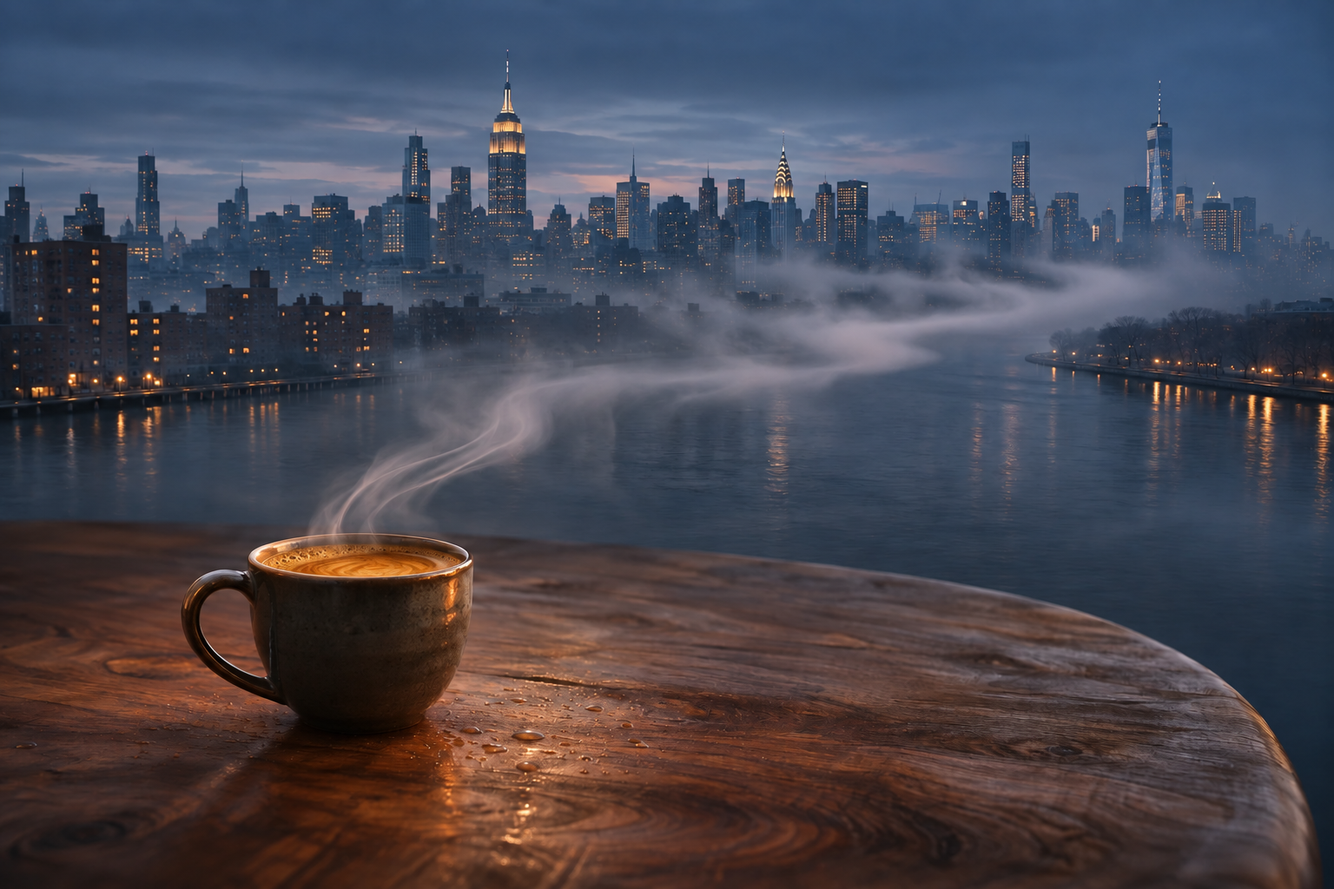
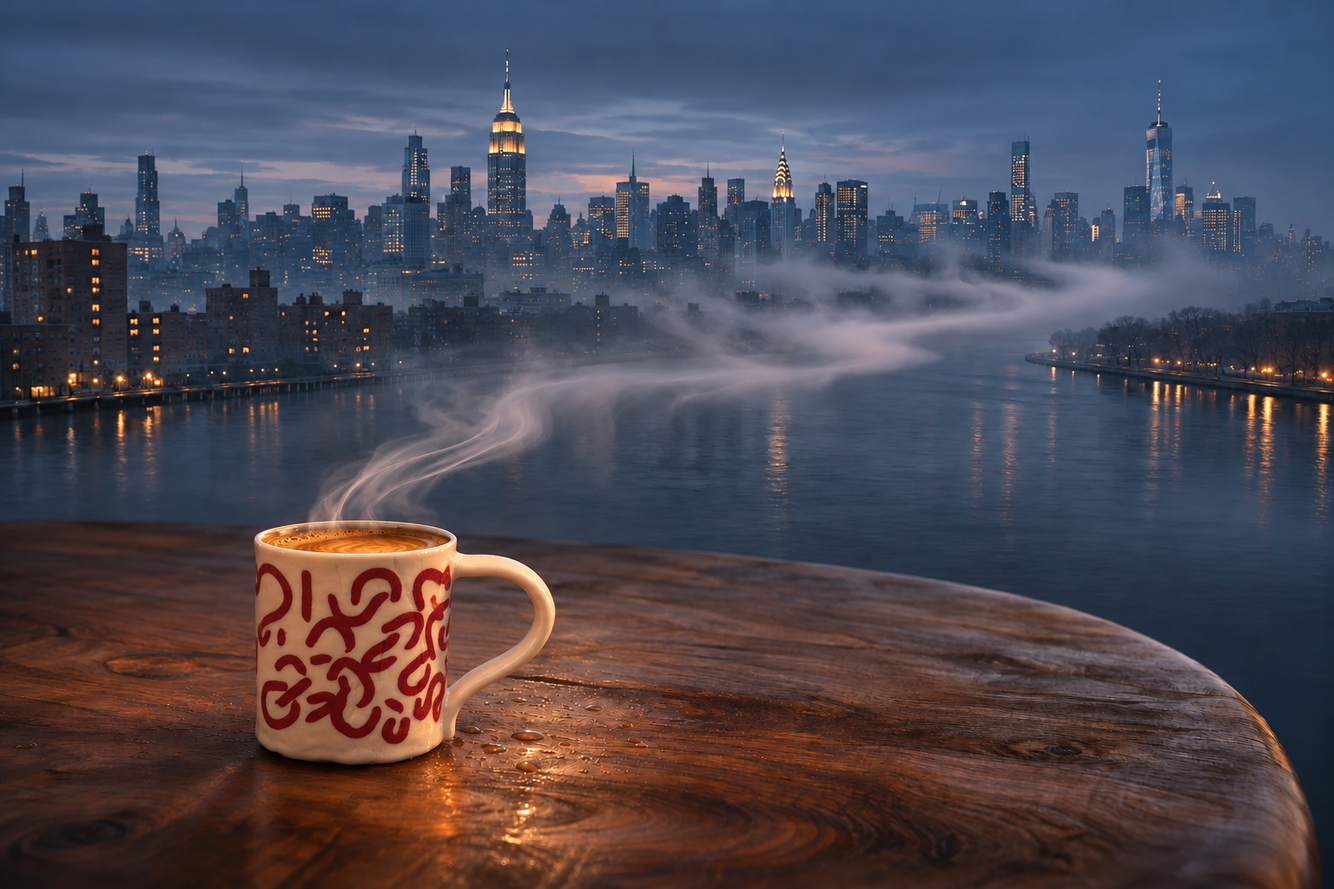
Replace the gallery with the supplied personal cup images

diff --git a/public/ryans-cup/index.html b/public/ryans-cup/index.html
@@ -15,16 +15,16 @@
   <meta property="og:type" content="article">
   <meta property="og:url" content="https://www.ofnectar.com/ryans-cup/">
   <meta property="og:locale" content="en_US">
-  <meta property="og:image" content="https://www.ofnectar.com/assets/hero/06-brooklyn-morning.webp?v=crema-v3">
-  <meta property="og:image:alt" content="Crema-topped coffee on a brownstone kitchen table, its steam drifting toward rooftops and river fog before sunrise.">
+  <meta property="og:image" content="https://www.ofnectar.com/assets/hero/06-brooklyn-morning.webp?v=personal-cups-v1">
+  <meta property="og:image:alt" content="Coffee in a black-and-white patterned mug and saucer on an oak kitchen table, with steam rising toward foggy New York through a window.">
   <meta property="og:image:width" content="1536">
   <meta property="og:image:height" content="1024">
   <meta name="twitter:card" content="summary_large_image">
   <meta name="twitter:title" content="Ryan’s Cup — Coffee Brewed in an 8 oz Cup | Nectar">
   <meta name="twitter:description" content="Make Ryan’s Cup: grind coffee between espresso and Turkish, brew it directly in an 8 fl oz cup, and let the grounds settle. A small, personal coffee ritual.">
-  <meta name="twitter:image" content="https://www.ofnectar.com/assets/hero/06-brooklyn-morning.webp?v=crema-v3">
-  <meta name="twitter:image:alt" content="Crema-topped coffee on a brownstone kitchen table, its steam drifting toward rooftops and river fog before sunrise.">
-  <script type="application/ld+json">{"@context":"https://schema.org","@graph":[{"@type":"Organization","@id":"https://www.ofnectar.com/#organization","name":"Nectar Coffee Roasters","url":"https://www.ofnectar.com/","logo":"https://www.ofnectar.com/assets/nectar-unwinding-haze.webp?v=steam-b-v1","description":"a cup of Nectar."},{"@type":"WebSite","@id":"https://www.ofnectar.com/#website","name":"Nectar Coffee Roasters","url":"https://www.ofnectar.com/","publisher":{"@id":"https://www.ofnectar.com/#organization"},"inLanguage":"en"},{"@type":"WebPage","@id":"https://www.ofnectar.com/ryans-cup/#webpage","url":"https://www.ofnectar.com/ryans-cup/","name":"Ryan’s Cup — Coffee Brewed in an 8 oz Cup | Nectar","description":"Make Ryan’s Cup: grind coffee between espresso and Turkish, brew it directly in an 8 fl oz cup, and let the grounds settle. A small, personal coffee ritual.","isPartOf":{"@id":"https://www.ofnectar.com/#website"},"about":{"@id":"https://www.ofnectar.com/ryans-cup/#article"},"inLanguage":"en"},{"@type":"Article","@id":"https://www.ofnectar.com/ryans-cup/#article","url":"https://www.ofnectar.com/ryans-cup/","headline":"Ryan’s Cup: coffee brewed directly in an 8 oz cup","description":"Make Ryan’s Cup: grind coffee between espresso and Turkish, brew it directly in an 8 fl oz cup, and let the grounds settle. A small, personal coffee ritual.","image":"https://www.ofnectar.com/assets/hero/06-brooklyn-morning.webp?v=crema-v3","author":{"@id":"https://www.ofnectar.com/#organization"},"publisher":{"@id":"https://www.ofnectar.com/#organization"},"mainEntityOfPage":{"@id":"https://www.ofnectar.com/ryans-cup/#webpage"}},{"@type":"BreadcrumbList","itemListElement":[{"@type":"ListItem","position":1,"name":"Home","item":"https://www.ofnectar.com/"},{"@type":"ListItem","position":2,"name":"Ryan’s Cup","item":"https://www.ofnectar.com/ryans-cup/"}]}]}</script>
+  <meta name="twitter:image" content="https://www.ofnectar.com/assets/hero/06-brooklyn-morning.webp?v=personal-cups-v1">
+  <meta name="twitter:image:alt" content="Coffee in a black-and-white patterned mug and saucer on an oak kitchen table, with steam rising toward foggy New York through a window.">
+  <script type="application/ld+json">{"@context":"https://schema.org","@graph":[{"@type":"Organization","@id":"https://www.ofnectar.com/#organization","name":"Nectar Coffee Roasters","url":"https://www.ofnectar.com/","logo":"https://www.ofnectar.com/assets/nectar-unwinding-haze.webp?v=steam-b-v1","description":"a cup of Nectar."},{"@type":"WebSite","@id":"https://www.ofnectar.com/#website","name":"Nectar Coffee Roasters","url":"https://www.ofnectar.com/","publisher":{"@id":"https://www.ofnectar.com/#organization"},"inLanguage":"en"},{"@type":"WebPage","@id":"https://www.ofnectar.com/ryans-cup/#webpage","url":"https://www.ofnectar.com/ryans-cup/","name":"Ryan’s Cup — Coffee Brewed in an 8 oz Cup | Nectar","description":"Make Ryan’s Cup: grind coffee between espresso and Turkish, brew it directly in an 8 fl oz cup, and let the grounds settle. A small, personal coffee ritual.","isPartOf":{"@id":"https://www.ofnectar.com/#website"},"about":{"@id":"https://www.ofnectar.com/ryans-cup/#article"},"inLanguage":"en"},{"@type":"Article","@id":"https://www.ofnectar.com/ryans-cup/#article","url":"https://www.ofnectar.com/ryans-cup/","headline":"Ryan’s Cup: coffee brewed directly in an 8 oz cup","description":"Make Ryan’s Cup: grind coffee between espresso and Turkish, brew it directly in an 8 fl oz cup, and let the grounds settle. A small, personal coffee ritual.","image":"https://www.ofnectar.com/assets/hero/06-brooklyn-morning.webp?v=personal-cups-v1","author":{"@id":"https://www.ofnectar.com/#organization"},"publisher":{"@id":"https://www.ofnectar.com/#organization"},"mainEntityOfPage":{"@id":"https://www.ofnectar.com/ryans-cup/#webpage"}},{"@type":"BreadcrumbList","itemListElement":[{"@type":"ListItem","position":1,"name":"Home","item":"https://www.ofnectar.com/"},{"@type":"ListItem","position":2,"name":"Ryan’s Cup","item":"https://www.ofnectar.com/ryans-cup/"}]}]}</script>
   <!-- SEO:end -->
   <link rel="icon" href="/assets/favicon.svg?v=steam-b-v1" type="image/svg+xml">
   <link rel="preload" href="/assets/nectar-unwinding-haze.webp?v=steam-b-v1" as="image">
@@ -48,7 +48,7 @@
     <div class="header-actions"><button class="bag-button" data-open="cart-dialog" aria-label="Open your bag"><svg viewBox="0 0 24 24" aria-hidden="true"><path d="M5 7h14l1 14H4L5 7Zm3 0V5a4 4 0 0 1 8 0v2" fill="none" stroke="currentColor" stroke-width="1.4"/></svg><span>Bag</span><span class="bag-count" data-cart-count>0</span></button><button class="menu-toggle" data-open="menu-dialog" aria-label="Open navigation"><span></span><span></span></button></div>
   </header>
   <main id="main">
-    <section class="ryan-page-hero" aria-labelledby="ryan-title"><nav class="breadcrumbs" aria-label="Breadcrumb"><a href="/">Home</a><span aria-hidden="true">/</span><span aria-current="page">Ryan’s Cup</span></nav><div class="ryan-page-heading"><div><p class="eyebrow">THE SIGNATURE RITUAL</p><h1 id="ryan-title">Ryan’s <em>Cup.</em></h1></div><p>Fine grounds.<br> Hot water.<br> Your eight-ounce cup.</p></div><div class="ryan-page-image"><img src="/assets/hero/06-brooklyn-morning.webp?v=crema-v3" alt="An imagined New York morning above a kitchen table with a crema-topped coffee cup" width="1536" height="1024" fetchpriority="high"><span>Small cup. Freshly made. Yours.</span></div></section>
+    <section class="ryan-page-hero" aria-labelledby="ryan-title"><nav class="breadcrumbs" aria-label="Breadcrumb"><a href="/">Home</a><span aria-hidden="true">/</span><span aria-current="page">Ryan’s Cup</span></nav><div class="ryan-page-heading"><div><p class="eyebrow">THE SIGNATURE RITUAL</p><h1 id="ryan-title">Ryan’s <em>Cup.</em></h1></div><p>Fine grounds.<br> Hot water.<br> Your eight-ounce cup.</p></div><div class="ryan-page-image"><img src="/assets/hero/06-brooklyn-morning.webp?v=personal-cups-v1" alt="Coffee in a black-and-white patterned mug and saucer on an oak kitchen table, with steam rising toward foggy New York through a window." width="1536" height="1024" fetchpriority="high"><span>Small cup. Freshly made. Yours.</span></div></section>
     <section class="ryan-introduction" aria-labelledby="ryan-intro-title"><h2 id="ryan-intro-title">A little cup.<br><em>More often.</em></h2><div><p>Ryan’s Cup is coffee brewed directly in the cup you drink from. Use an 8 fl oz cup and coffee ground between espresso and Turkish. The grounds stay in the cup throughout the brew.</p><p>Hot water sets the grounds in motion. As the cup rests, gravity helps them settle. It is an unfiltered immersion brew: no plunger, no paper, just a small cup made when you want it.</p></div></section>
     <section class="ryan-instructions" aria-labelledby="ryan-steps-title"><div class="section-heading"><div><p class="eyebrow">HOW TO MAKE RYAN’S CUP</p><h2 id="ryan-steps-title">Grind. Pour.<br><em>Let it settle.</em></h2></div><p>Adjust the coffee dose to your taste. The eight ounces describe the cup’s capacity.</p></div><ol><li><span class="step-number">01</span><div><h3>Grind fine.</h3><p>Choose a grind finer than espresso and coarser than Turkish. Grind for the cup you’re making.</p></div></li><li><span class="step-number">02</span><div><h3>Start in the cup.</h3><p>Place the grounds directly in the bottom of an 8 fl oz cup. There is no separate brewing vessel.</p></div></li><li><span class="step-number">03</span><div><h3>Pour. Let it settle.</h3><p>Pour in hot water, leaving room below the rim. The pour moves the grounds through the water. Let the cup rest as the grounds settle.</p></div></li><li><span class="step-number">04</span><div><h3>Sip slowly.</h3><p>Once the cup is comfortable to drink, sip from above the settled grounds. Leave the sediment at the bottom.</p></div></li></ol></section>
     <section class="ryan-notes" aria-labelledby="ryan-notes-title"><div><p class="eyebrow">THE DETAILS</p><h2 id="ryan-notes-title">A ritual,<br><em>made personal.</em></h2></div><div class="faq-list"><details><summary>How fine should I grind?<span>+</span></summary><p>Between espresso and Turkish: finer than a typical espresso grind, without going all the way to the powder-like Turkish end. Grinders vary, so adjust yours by how the cup drinks.</p></details><details><summary>What happens to the grounds?<span>+</span></summary><p>They stay in the cup. Give them time to settle, sip gently, and leave the sediment at the bottom. This method uses immersion and settling rather than a filter.</p></details><details><summary>How much water goes in?<span>+</span></summary><p>Use an 8 fl oz cup and leave space beneath the rim for the coffee grounds and the pour. Eight ounces is the cup size, not a fixed water dose.</p></details><details><summary>Which roast can I use?<span>+</span></summary><p>Choose Infinite Luck for our light roast or Azoth for our dark roast. Both are available in 12 oz and 5 lb bags.</p></details></div></section>
@@ -59,7 +59,7 @@
     </section>
   </main>
   <!-- SOCIAL:start -->
-  <section class="social-section" aria-labelledby="social-title"><div><p class="eyebrow">PASS IT ON</p><h2 id="social-title">A cup worth <em>sharing.</em></h2></div><div class="social-actions"><button data-share-cup>Share this page ↗</button><a href="https://www.pinterest.com/pin/create/button/?url=https%3A%2F%2Fwww.ofnectar.com%2Fryans-cup%2F&amp;media=https%3A%2F%2Fwww.ofnectar.com%2Fassets%2Fhero%2F06-brooklyn-morning.webp%3Fv%3Dcrema-v3&amp;description=Make+Ryan%E2%80%99s+Cup%3A+grind+coffee+between+espresso+and+Turkish%2C+brew+it+directly+in+an+8+fl+oz+cup%2C+and+let+the+grounds+settle.+A+small%2C+personal+coffee+ritual." target="_blank" rel="noopener noreferrer">Save on Pinterest ↗</a><span class="social-status" role="status" aria-live="polite" data-share-status></span></div></section>
+  <section class="social-section" aria-labelledby="social-title"><div><p class="eyebrow">PASS IT ON</p><h2 id="social-title">A cup worth <em>sharing.</em></h2></div><div class="social-actions"><button data-share-cup>Share this page ↗</button><a href="https://www.pinterest.com/pin/create/button/?url=https%3A%2F%2Fwww.ofnectar.com%2Fryans-cup%2F&amp;media=https%3A%2F%2Fwww.ofnectar.com%2Fassets%2Fhero%2F06-brooklyn-morning.webp%3Fv%3Dpersonal-cups-v1&amp;description=Make+Ryan%E2%80%99s+Cup%3A+grind+coffee+between+espresso+and+Turkish%2C+brew+it+directly+in+an+8+fl+oz+cup%2C+and+let+the+grounds+settle.+A+small%2C+personal+coffee+ritual." target="_blank" rel="noopener noreferrer">Save on Pinterest ↗</a><span class="social-status" role="status" aria-live="polite" data-share-status></span></div></section>
   <!-- SOCIAL:end -->
   <footer class="site-footer"><div class="footer-top"><div class="footer-intro"><a class="brand footer-brand" href="/" aria-label="Nectar Coffee Roasters home"><svg aria-hidden="true"><use href="#nectar-key"/></svg><span><span class="brand-line">Nectar</span><small>COFFEE ROASTERS</small></span></a><p class="footer-slogan" aria-label="a cup of Nectar">a cup <svg viewBox="0 0 60 84" aria-hidden="true"><use href="#nectar-of"/></svg> Nectar</p></div><nav aria-label="Footer navigation"><div><span class="eyebrow">SHOP</span><a href="/coffee/infinite-luck-light-roast/">Infinite Luck · light roast</a><a href="/coffee/azoth-dark-roast/">Azoth · dark roast</a><button data-open="sizes-dialog">Bag sizes</button></div><div><span class="eyebrow">EXPLORE</span><a href="/about/">Our story</a><a href="/ryans-cup/">Ryan’s Cup</a><a href="/#stay-in-the-loop">Email updates</a></div><div><span class="eyebrow">A LITTLE HELP</span><button data-open="info-dialog">Ordering &amp; privacy</button><a data-contact hidden>Contact</a><button data-open="cart-dialog">Your bag</button></div></nav></div><div class="footer-bottom"><span>© <span data-year>2026</span></span><span>Light &amp; dark roast coffee · USD</span><a href="#">Back to top ↑</a></div></footer>
   <div class="toast" id="toast" role="status" aria-live="polite"></div>

diff --git a/public/index.html b/public/index.html
@@ -29,10 +29,10 @@
   <link rel="icon" href="/assets/favicon.svg?v=steam-b-v1" type="image/svg+xml">
   <link rel="preload" href="/assets/nectar-unwinding-haze.webp?v=steam-b-v1" as="image">
   <link rel="preload" href="/assets/fonts/cormorant-regular.woff2" as="font" type="font/woff2" crossorigin>
-  <link rel="preload" href="/assets/hero/01-city-wakes.webp?v=crema-v3" as="image">
+  <link rel="preload" href="/assets/hero/01-city-wakes.webp?v=personal-cups-v1" as="image">
   <link rel="stylesheet" href="/styles.css?v=of-rotate-v1">
   <script src="/app.js?v=steam-b-v1" type="module"></script>
-  <script src="/carousel.js?v=steam-b-v1" type="module"></script>
+  <script src="/carousel.js?v=personal-cups-v1" type="module"></script>
   <script src="/social.js?v=steam-b-v1" type="module"></script>
 </head>
 <body>
@@ -53,7 +53,7 @@
       <div class="hero-masthead"><div class="hero-copy"><h1 id="hero-title" class="personal-slogan cup-slogan" aria-label="a cup of Nectar"><span class="slogan-lead">a cup</span><span class="slogan-signature"><svg viewBox="0 0 60 84" aria-hidden="true"><use href="#nectar-of"/></svg><span>Nectar</span></span></h1></div><div class="hero-actions"><a class="button button-primary" href="#coffee">Choose your coffee <svg aria-hidden="true"><use href="#arrow"/></svg></a><p>12 oz — $12 <span>5 lb — $72</span></p><a class="underlined-link" href="/ryans-cup/">The ritual: Ryan’s Cup ↗</a></div></div>
       <div class="hero-editorial-grid"><!-- HERO:start -->
       <div class="hero-gallery" data-carousel role="region" aria-roledescription="carousel" aria-labelledby="scene-gallery-title">
-        <div class="scene-frame" id="scene-frame" data-scene-frame><img class="scene-image" src="/assets/hero/01-city-wakes.webp?v=crema-v3" alt="Steam from a crema-topped ivory cup on an oak kitchen table becomes the morning fog over a full-size city." width="1536" height="1024" fetchpriority="high"></div>
+        <div class="scene-frame" id="scene-frame" data-scene-frame><img class="scene-image" src="/assets/hero/01-city-wakes.webp?v=personal-cups-v1" alt="Coffee in a red-patterned cream mug on a dew-covered oak table, with steam drifting into a misty New York skyline at sunrise." width="1536" height="1024" fetchpriority="high"></div>
         <div class="scene-caption"><div><p class="eyebrow" id="scene-gallery-title">BEFORE THE CITY WAKES</p><span data-scene-title>The city wakes</span></div><span class="scene-count" data-scene-count>01 / 10</span></div>
         <div class="scene-controls" data-scene-controls hidden><div class="scene-dots" role="group" aria-label="Choose a scene"><button data-scene="0" aria-label="Show scene 1: The city wakes" aria-controls="scene-frame" aria-pressed="true"><span></span></button><button data-scene="1" aria-label="Show scene 2: Through the window" aria-controls="scene-frame" aria-pressed="false"><span></span></button><button data-scene="2" aria-label="Show scene 3: A river of steam" aria-controls="scene-frame" aria-pressed="false"><span></span></button><button data-scene="3" aria-label="Show scene 4: The blue hour" aria-controls="scene-frame" aria-pressed="false"><span></span></button><button data-scene="4" aria-label="Show scene 5: Rain on glass" aria-controls="scene-frame" aria-pressed="false"><span></span></button><button data-scene="5" aria-label="Show scene 6: A Brooklyn morning" aria-controls="scene-frame" aria-pressed="false"><span></span></button><button data-scene="6" aria-label="Show scene 7: The last light" aria-controls="scene-frame" aria-pressed="false"><span></span></button><button data-scene="7" aria-label="Show scene 8: Quiet geometry" aria-controls="scene-frame" aria-pressed="false"><span></span></button><button data-scene="8" aria-label="Show scene 9: A city in the reflection" aria-controls="scene-frame" aria-pressed="false"><span></span></button><button data-scene="9" aria-label="Show scene 10: Before the rush" aria-controls="scene-frame" aria-pressed="false"><span></span></button></div><select class="scene-select" data-scene-select aria-label="Choose a scene" aria-controls="scene-frame"><option value="0">01 · The city wakes</option><option value="1">02 · Through the window</option><option value="2">03 · A river of steam</option><option value="3">04 · The blue hour</option><option value="4">05 · Rain on glass</option><option value="5">06 · A Brooklyn morning</option><option value="6">07 · The last light</option><option value="7">08 · Quiet geometry</option><option value="8">09 · A city in the reflection</option><option value="9">10 · Before the rush</option></select><div class="scene-arrows"><button data-scene-play aria-label="Pause image slideshow">Pause</button><button class="scene-arrow" data-scene-prev aria-label="Previous scene">←</button><button class="scene-arrow" data-scene-next aria-label="Next scene">→</button></div></div>
         <span class="sr-only" role="status" aria-live="polite" data-scene-status></span>
@@ -84,7 +84,7 @@
       <div class="duo-callout"><div class="duo-images" aria-hidden="true"><img src="/assets/infinite-luck-12oz-mark.webp?v=steam-b-v1" alt="" width="1024" height="1536" loading="lazy"><img src="/assets/azoth-12oz-mark.webp?v=steam-b-v1" alt="" width="1024" height="1536" loading="lazy"></div><div><p class="eyebrow">A LITTLE OF BOTH</p><h3>One light. One dark.</h3><p>Two 12 oz bags. Find your favorite.</p></div><button class="button button-outline" data-try-both>Try both — $24 <svg aria-hidden="true"><use href="#arrow"/></svg></button></div>
     </section>
     <section class="approach-section" id="approach" aria-labelledby="approach-title"><div class="approach-copy"><p class="eyebrow">THE STORY BEHIND THE CUP</p><h2 id="approach-title">A love that<br><em>stayed.</em></h2><p>From Disney to Starbucks, and now a large bank in New York City. A life in motion. A cup that stays.</p><a class="underlined-link" href="/about/">Meet the founder ↗</a></div><div class="brand-plaque" aria-hidden="true"><svg><use href="#nectar-key"/></svg><span class="plaque-wordmark">Nectar</span><span>COFFEE ROASTERS</span></div></section>
-    <section class="ryan-feature" aria-labelledby="ryan-feature-title"><div class="ryan-feature-image"><img src="/assets/hero/06-brooklyn-morning.webp?v=crema-v3" alt="A crema-topped coffee cup in an imagined New York kitchen at dawn" width="1536" height="1024" loading="lazy"><span>THE EIGHT-OUNCE RITUAL</span></div><div class="ryan-feature-copy"><p class="eyebrow">INTRODUCING</p><h2 id="ryan-feature-title">Ryan’s <em>Cup.</em></h2><p class="ryan-feature-lead">Coffee brewed in the cup itself.</p><p>Grind between espresso and Turkish. Place the grounds in an 8 oz cup. Add hot water, let the grounds settle, and sip slowly.</p><ol><li><span>01</span>Grind fine.</li><li><span>02</span>Pour in the cup.</li><li><span>03</span>Let gravity settle it.</li></ol><a class="underlined-link" href="/ryans-cup/">Make Ryan’s Cup ↗</a></div></section>
+    <section class="ryan-feature" aria-labelledby="ryan-feature-title"><div class="ryan-feature-image"><img src="/assets/hero/06-brooklyn-morning.webp?v=personal-cups-v1" alt="Coffee in a black-and-white patterned mug and saucer on an oak kitchen table, with steam rising toward foggy New York through a window." width="1536" height="1024" loading="lazy"><span>THE EIGHT-OUNCE RITUAL</span></div><div class="ryan-feature-copy"><p class="eyebrow">INTRODUCING</p><h2 id="ryan-feature-title">Ryan’s <em>Cup.</em></h2><p class="ryan-feature-lead">Coffee brewed in the cup itself.</p><p>Grind between espresso and Turkish. Place the grounds in an 8 oz cup. Add hot water, let the grounds settle, and sip slowly.</p><ol><li><span>01</span>Grind fine.</li><li><span>02</span>Pour in the cup.</li><li><span>03</span>Let gravity settle it.</li></ol><a class="underlined-link" href="/ryans-cup/">Make Ryan’s Cup ↗</a></div></section>
     <section class="newsletter-section" id="stay-in-the-loop" aria-labelledby="newsletter-title">
       <div class="newsletter-copy"><p class="eyebrow">NOTES FROM THE ROASTER</p><h2 id="newsletter-title">Good things,<br><em>now and then.</em></h2><p>Coffee news, straight to your inbox.</p></div>
       <form id="newsletter-form" class="newsletter-form" novalidate><label for="newsletter-email">Your email address</label><div class="newsletter-input-row"><input id="newsletter-email" name="email" type="email" autocomplete="email" placeholder="you@example.com" maxlength="254" required aria-describedby="newsletter-message"><button type="submit">Join the list <svg aria-hidden="true"><use href="#arrow"/></svg></button></div><div class="newsletter-trap" aria-hidden="true"><label for="newsletter-website">Leave this blank</label><input id="newsletter-website" name="website" type="text" tabindex="-1" autocomplete="off"></div><label class="newsletter-consent"><input name="consent" type="checkbox" required><span>Email me updates from <span class="brand-inline"><svg class="brand-symbol" aria-hidden="true"><use href="#nectar-key"/></svg> Nectar.</span></span></label><p class="newsletter-privacy">Your email stays private. Leave the list by reply.</p><p id="newsletter-message" class="newsletter-message" role="status" aria-live="polite"></p></form>

diff --git a/public/about/index.html b/public/about/index.html
@@ -15,15 +15,15 @@
   <meta property="og:type" content="website">
   <meta property="og:url" content="https://www.ofnectar.com/about/">
   <meta property="og:locale" content="en_US">
-  <meta property="og:image" content="https://www.ofnectar.com/assets/hero/07-last-light.webp?v=crema-v3">
-  <meta property="og:image:alt" content="A warm cup of coffee with golden crema on walnut beneath a softly lit city skyline emerging through predawn mist.">
+  <meta property="og:image" content="https://www.ofnectar.com/assets/hero/07-last-light.webp?v=personal-cups-v1">
+  <meta property="og:image:alt" content="A black-and-white patterned coffee mug and saucer on a dark wooden counter, with drifting steam and a blue New York skyline through tall windows.">
   <meta property="og:image:width" content="1536">
   <meta property="og:image:height" content="1024">
   <meta name="twitter:card" content="summary_large_image">
   <meta name="twitter:title" content="About — A love that stayed. | Nectar Coffee Roasters">
   <meta name="twitter:description" content="From Disney to Starbucks to a large bank in New York City: the founder’s story and the personal coffee ritual behind Nectar Coffee Roasters.">
-  <meta name="twitter:image" content="https://www.ofnectar.com/assets/hero/07-last-light.webp?v=crema-v3">
-  <meta name="twitter:image:alt" content="A warm cup of coffee with golden crema on walnut beneath a softly lit city skyline emerging through predawn mist.">
+  <meta name="twitter:image" content="https://www.ofnectar.com/assets/hero/07-last-light.webp?v=personal-cups-v1">
+  <meta name="twitter:image:alt" content="A black-and-white patterned coffee mug and saucer on a dark wooden counter, with drifting steam and a blue New York skyline through tall windows.">
   <script type="application/ld+json">{"@context":"https://schema.org","@graph":[{"@type":"Organization","@id":"https://www.ofnectar.com/#organization","name":"Nectar Coffee Roasters","url":"https://www.ofnectar.com/","logo":"https://www.ofnectar.com/assets/nectar-unwinding-haze.webp?v=steam-b-v1","description":"a cup of Nectar."},{"@type":"WebSite","@id":"https://www.ofnectar.com/#website","name":"Nectar Coffee Roasters","url":"https://www.ofnectar.com/","publisher":{"@id":"https://www.ofnectar.com/#organization"},"inLanguage":"en"},{"@type":"AboutPage","@id":"https://www.ofnectar.com/about/#webpage","url":"https://www.ofnectar.com/about/","name":"About — A love that stayed. | Nectar Coffee Roasters","description":"From Disney to Starbucks to a large bank in New York City: the founder’s story and the personal coffee ritual behind Nectar Coffee Roasters.","isPartOf":{"@id":"https://www.ofnectar.com/#website"},"about":{"@id":"https://www.ofnectar.com/#organization"},"inLanguage":"en"},{"@type":"BreadcrumbList","itemListElement":[{"@type":"ListItem","position":1,"name":"Home","item":"https://www.ofnectar.com/"},{"@type":"ListItem","position":2,"name":"About","item":"https://www.ofnectar.com/about/"}]}]}</script>
   <!-- SEO:end -->
   <link rel="icon" href="/assets/favicon.svg?v=steam-b-v1" type="image/svg+xml">
@@ -57,7 +57,7 @@
       </div>
       <svg class="about-page-key" aria-hidden="true"><use href="#nectar-key"/></svg>
     </section>
-    <figure class="founder-morning"><img src="/assets/hero/07-last-light.webp?v=crema-v3" alt="An imagined New York morning with a crema-topped coffee cup beneath the city skyline" width="1536" height="1024" loading="lazy"><figcaption>A city in motion. A moment in a cup.</figcaption></figure>
+    <figure class="founder-morning"><img src="/assets/hero/07-last-light.webp?v=personal-cups-v1" alt="A black-and-white patterned coffee mug and saucer on a dark wooden counter, with drifting steam and a blue New York skyline through tall windows." width="1536" height="1024" loading="lazy"><figcaption>A city in motion. A moment in a cup.</figcaption></figure>
     <section class="about-page-story" aria-labelledby="about-page-story-title">
       <div class="about-page-story-heading"><p class="eyebrow">A NOTE FROM THE FOUNDER</p><h2 id="about-page-story-title">Coffee, <em>through it all.</em></h2></div>
       <div class="about-page-story-copy">
@@ -74,7 +74,7 @@
     </section>
   </main>
   <!-- SOCIAL:start -->
-  <section class="social-section" aria-labelledby="social-title"><div><p class="eyebrow">PASS IT ON</p><h2 id="social-title">A cup worth <em>sharing.</em></h2></div><div class="social-actions"><button data-share-cup>Share this page ↗</button><a href="https://www.pinterest.com/pin/create/button/?url=https%3A%2F%2Fwww.ofnectar.com%2Fabout%2F&amp;media=https%3A%2F%2Fwww.ofnectar.com%2Fassets%2Fhero%2F07-last-light.webp%3Fv%3Dcrema-v3&amp;description=From+Disney+to+Starbucks+to+a+large+bank+in+New+York+City%3A+the+founder%E2%80%99s+story+and+the+personal+coffee+ritual+behind+Nectar+Coffee+Roasters." target="_blank" rel="noopener noreferrer">Save on Pinterest ↗</a><span class="social-status" role="status" aria-live="polite" data-share-status></span></div></section>
+  <section class="social-section" aria-labelledby="social-title"><div><p class="eyebrow">PASS IT ON</p><h2 id="social-title">A cup worth <em>sharing.</em></h2></div><div class="social-actions"><button data-share-cup>Share this page ↗</button><a href="https://www.pinterest.com/pin/create/button/?url=https%3A%2F%2Fwww.ofnectar.com%2Fabout%2F&amp;media=https%3A%2F%2Fwww.ofnectar.com%2Fassets%2Fhero%2F07-last-light.webp%3Fv%3Dpersonal-cups-v1&amp;description=From+Disney+to+Starbucks+to+a+large+bank+in+New+York+City%3A+the+founder%E2%80%99s+story+and+the+personal+coffee+ritual+behind+Nectar+Coffee+Roasters." target="_blank" rel="noopener noreferrer">Save on Pinterest ↗</a><span class="social-status" role="status" aria-live="polite" data-share-status></span></div></section>
   <!-- SOCIAL:end -->
   <footer class="site-footer"><div class="footer-top"><div class="footer-intro"><a class="brand footer-brand" href="/" aria-label="Nectar Coffee Roasters home"><svg aria-hidden="true"><use href="#nectar-key"/></svg><span><span class="brand-line">Nectar</span><small>COFFEE ROASTERS</small></span></a><p class="footer-slogan" aria-label="a cup of Nectar">a cup <svg viewBox="0 0 60 84" aria-hidden="true"><use href="#nectar-of"/></svg> Nectar</p></div><nav aria-label="Footer navigation"><div><span class="eyebrow">SHOP</span><a href="/coffee/infinite-luck-light-roast/">Infinite Luck · light roast</a><a href="/coffee/azoth-dark-roast/">Azoth · dark roast</a><button data-open="sizes-dialog">Bag sizes</button></div><div><span class="eyebrow">EXPLORE</span><a href="/about/">Our story</a><a href="/ryans-cup/">Ryan’s Cup</a><a href="/#stay-in-the-loop">Email updates</a></div><div><span class="eyebrow">A LITTLE HELP</span><button data-open="info-dialog">Ordering &amp; privacy</button><a data-contact hidden>Contact</a><button data-open="cart-dialog">Your bag</button></div></nav></div><div class="footer-bottom"><span>© <span data-year>2026</span></span><span>Light &amp; dark roast coffee · USD</span><a href="#">Back to top ↑</a></div></footer>
   <div class="toast" id="toast" role="status" aria-live="polite"></div>

diff --git a/public/hero-slides.js b/public/hero-slides.js
@@ -1,16 +1,16 @@
-/** Ten original, independently generated interpretations of coffee becoming a city morning. */
+/** Ten owner-supplied city mornings featuring their red and black-and-white patterned cups. */
 export const HERO_SLIDES = Object.freeze([
-  { id: '01-city-wakes', title: 'The city wakes', alt: 'Steam from a crema-topped ivory cup on an oak kitchen table becomes the morning fog over a full-size city.' },
-  { id: '02-through-window', title: 'Through the window', alt: 'A crema-topped coffee cup on a walnut kitchen table, its steam meeting city fog beyond a tall apartment window.' },
-  { id: '03-river-steam', title: 'A river of steam', alt: 'Steam from a dark cup of coffee with golden crema curves into a fog-covered river beneath a city before sunrise.' },
-  { id: '04-blue-hour', title: 'The blue hour', alt: 'A small ivory espresso cup topped with golden crema below a distant blue city, connected by a quiet ribbon of steam and fog.' },
-  { id: '05-rain-on-glass', title: 'Rain on glass', alt: 'A speckled cup of coffee with golden crema on oak, with steam joining a rainy, foggy city through an apartment window.' },
-  { id: '06-brooklyn-morning', title: 'A Brooklyn morning', alt: 'Crema-topped coffee on a brownstone kitchen table, its steam drifting toward rooftops and river fog before sunrise.' },
-  { id: '07-last-light', title: 'The last light', alt: 'A warm cup of coffee with golden crema on walnut beneath a softly lit city skyline emerging through predawn mist.' },
-  { id: '08-quiet-geometry', title: 'Quiet geometry', alt: 'An ivory cup of coffee with golden crema on pale stone, its steam rising toward a full-size city softened by predawn fog.' },
-  { id: '09-city-reflection', title: 'A city in the reflection', alt: 'A dark cup of coffee with golden crema on dew-covered steel and walnut, with a distant city reflected where steam meets morning fog.' },
-  { id: '10-before-rush', title: 'Before the rush', alt: 'A small cup of coffee with golden crema on a warm oak apartment table, overlooking layers of blue city rooftops before sunrise.' },
-].map(slide => Object.freeze({ ...slide, src: `/assets/hero/${slide.id}.webp?v=crema-v3`, width: 1536, height: 1024 })));
+  { id: '01-city-wakes', title: 'The city wakes', alt: 'Coffee in a red-patterned cream mug on a dew-covered oak table, with steam drifting into a misty New York skyline at sunrise.' },
+  { id: '02-through-window', title: 'Through the window', alt: 'A red-patterned coffee mug on a dark wooden counter by a window, its steam joining the fog over New York at dawn.' },
+  { id: '03-river-steam', title: 'A river of steam', alt: 'A red-patterned coffee mug on a rain-damp table, with steam winding into fog above the river and New York skyline.' },
+  { id: '04-blue-hour', title: 'The blue hour', alt: 'Steam rises from a red-patterned coffee mug and saucer toward a blue New York skyline in a deep predawn haze.' },
+  { id: '05-rain-on-glass', title: 'Rain on glass', alt: 'A red-patterned coffee mug and saucer on a kitchen table beneath a rain-streaked window and foggy New York skyline.' },
+  { id: '06-brooklyn-morning', title: 'A Brooklyn morning', alt: 'Coffee in a black-and-white patterned mug and saucer on an oak kitchen table, with steam rising toward foggy New York through a window.' },
+  { id: '07-last-light', title: 'The last light', alt: 'A black-and-white patterned coffee mug and saucer on a dark wooden counter, with drifting steam and a blue New York skyline through tall windows.' },
+  { id: '08-quiet-geometry', title: 'Quiet geometry', alt: 'A black-and-white patterned coffee mug on a pale stone table, with rising steam and a misty New York skyline beyond.' },
+  { id: '09-city-reflection', title: 'A city in the reflection', alt: 'A black-and-white patterned coffee mug on a dew-covered steel and wood table, its steam blending into fog over New York at dawn.' },
+  { id: '10-before-rush', title: 'Before the rush', alt: 'A black-and-white patterned coffee mug on a warm oak kitchen table with a chair, beneath a fog-softened New York skyline.' },
+].map(slide => Object.freeze({ ...slide, src: `/assets/hero/${slide.id}.webp?v=personal-cups-v1`, width: 1536, height: 1024 })));
 
 export function wrapSlide(index, count = HERO_SLIDES.length) {
   if (!Number.isSafeInteger(index) || !Number.isSafeInteger(count) || count < 1) throw new RangeError('Choose a valid scene.');

diff --git a/public/carousel.js b/public/carousel.js
@@ -1,4 +1,4 @@
-import { HERO_SLIDES, wrapSlide } from './hero-slides.js?v=personal-v3';
+import { HERO_SLIDES, wrapSlide } from './hero-slides.js?v=personal-cups-v1';
 
 /** Loads scenes on demand; never downloads ten full-size images on first paint. */
 export function initCarousel(root) {

diff --git a/README.md b/README.md
@@ -86,7 +86,7 @@ Exports GitLab when configured in `.env`, otherwise the local file, to private `
 
 ## Source and builds
 
-Search pages, the separate `/about/` founder story, metadata, product variant markup, and the sitemap are generated before local launch and Pages builds. Edit the founder story (Disney → Starbucks → a large bank in New York City) in `scripts/about-page.mjs`. Edit the signature ritual in `scripts/ryans-cup.mjs`. The homepage uses the “a cup [brand symbol] Nectar” slogan (the symbol replaces “of”) and ten crema-topped city/coffee scenes in an accessible carousel. Ryan’s Cup replaces the general brew guides and has its own `/ryans-cup/` article. See [the current design, SEO, and artwork notes](docs/personal-cup-update.md). See [docs/search-visibility.md](docs/search-visibility.md) for maintenance, confirmed search targets, and the owner's Search Console setup.
+Search pages, the separate `/about/` founder story, metadata, product variant markup, and the sitemap are generated before local launch and Pages builds. Edit the founder story (Disney → Starbucks → a large bank in New York City) in `scripts/about-page.mjs`. Edit the signature ritual in `scripts/ryans-cup.mjs`. The homepage uses the “a cup [brand symbol] Nectar” slogan (the symbol replaces “of”) and ten city/coffee scenes featuring the owner’s red and black-and-white patterned cups in an accessible carousel. Ryan’s Cup replaces the general brew guides and has its own `/ryans-cup/` article. See [the supplied cup images and current asset mapping](docs/user-cup-images.md), [the slogan and logo notes](docs/cup-logo-update.md), and [the earlier design and SEO notes](docs/personal-cup-update.md). See [docs/search-visibility.md](docs/search-visibility.md) for maintenance, confirmed search targets, and the owner's Search Console setup.
 
 - `public/`: browser code, text, styles, images, and public configuration.
 - `scripts/build-pages.mjs`: static artifact with CNAME and `.nojekyll`.

diff --git a/docs/user-cup-images.md b/docs/user-cup-images.md
@@ -1,0 +1,20 @@
+# Personal cup gallery images
+
+The owner supplied these ten replacement city-and-coffee images on 2026-11-19 in `OfNectar_10_Cup_Images`. The original PNG files are retained byte-for-byte in `design-assets/hero-series/` under their existing scene IDs.
+
+The published versions in `public/assets/hero/` are full-resolution 1536 × 1024 RGB WebPs, encoded at quality 94 with method 6. Only format optimization was applied: no cropping, recoloring, repainting, or new image generation. Both personal cup designs and the complete compositions are preserved. Original generation prompts elsewhere in the repository describe historical images and are retained as archive material.
+
+| Supplied folder | Original / scene ID | Published WebP | Bytes |
+| --- | --- | --- | ---: |
+| `Red_Cup` | `01-city-wakes.png` | `01-city-wakes.webp` | 174,390 |
+| `Red_Cup` | `02-through-window.png` | `02-through-window.webp` | 208,064 |
+| `Red_Cup` | `03-river-steam.png` | `03-river-steam.webp` | 258,770 |
+| `Red_Cup` | `04-blue-hour.png` | `04-blue-hour.webp` | 102,482 |
+| `Red_Cup` | `05-rain-on-glass.png` | `05-rain-on-glass.webp` | 259,614 |
+| `Black_Cup` | `06-brooklyn-morning.png` | `06-brooklyn-morning.webp` | 244,816 |
+| `Black_Cup` | `07-last-light.png` | `07-last-light.webp` | 147,016 |
+| `Black_Cup` | `08-quiet-geometry.png` | `08-quiet-geometry.webp` | 164,148 |
+| `Black_Cup` | `09-city-reflection.png` | `09-city-reflection.webp` | 307,548 |
+| `Black_Cup` | `10-before-rush.png` | `10-before-rush.webp` | 179,084 |
+
+Verification: all ten PNG masters match their supplied files by SHA-256; all ten WebPs are distinct and retain the original 1536 × 1024 dimensions. The red patterned cup occupies scenes 01–05, and the black-and-white patterned cup occupies scenes 06–10. Existing scene order and IDs are preserved.

diff --git a/docs/personal-cup-update.md b/docs/personal-cup-update.md
@@ -1,5 +1,7 @@
 # Your coffee, your cup, in your image.
 
+Current artwork note: the gallery PNG masters and WebPs have been replaced with the owner-supplied patterned-cup images. See [current images and provenance](user-cup-images.md) and [current slogan and logo](cup-logo-update.md). The generation prompts below describe the earlier edition.
+
 The current edition replaces the previous slogan and opening copy with a larger editorial masthead, a ten-scene crema carousel, a roast index, and a signature ritual. The original boxed cup / inverted-F mark remains the brand lockup before Nectar. The founder’s supplied journey is Disney → Starbucks → a large bank in New York City; this describes the founder, not a claimed cafe address or employer endorsement.
 
 ## Ryan’s Cup
